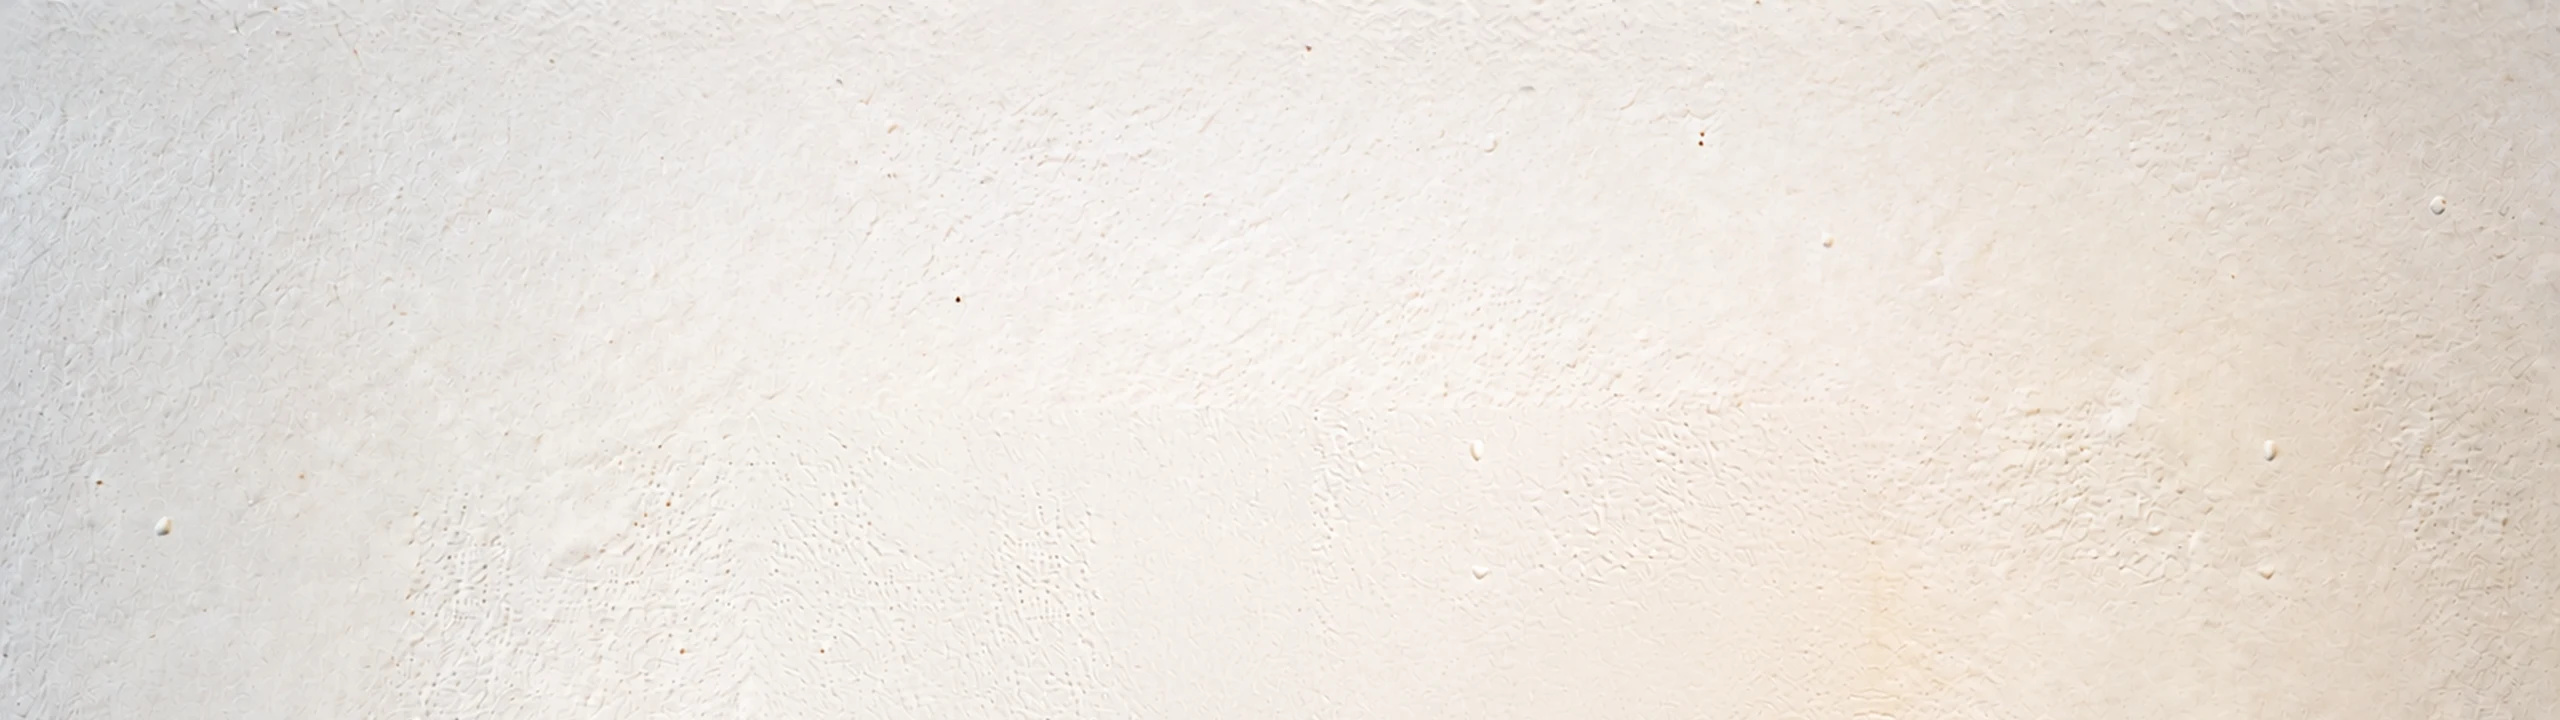
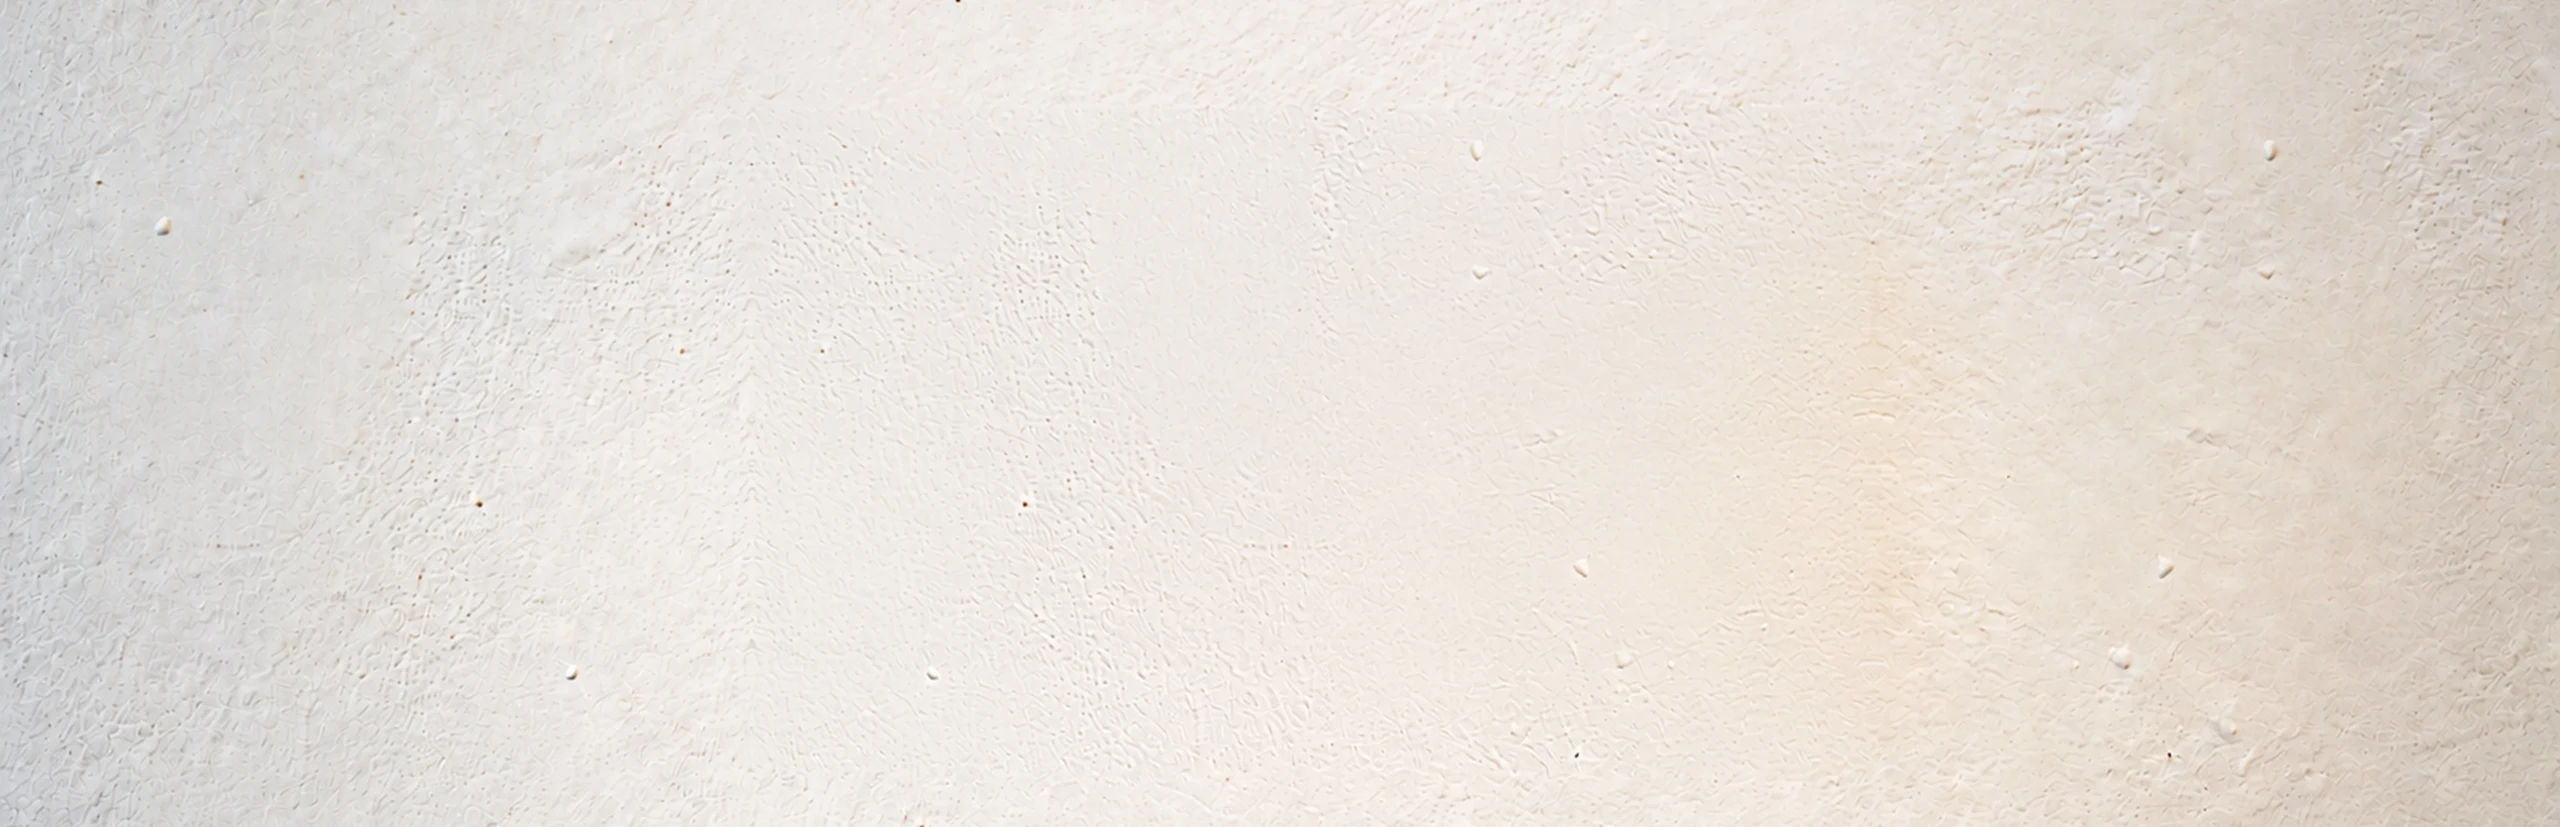
Proxy Media: plaster below the TV without the mirror line
tv-floor is now unmirrored plaster, tone-matched to the TV photo, that
overlaps the photo's bottom 80px and dissolves in over it.

Claude-Session: https://claude.ai/code/session_012kYhaJRhF992e4uGGoRwqB

diff --git a/proxymedia/motion/landing/scene.css b/proxymedia/motion/landing/scene.css
@@ -46,9 +46,11 @@ body,
   mask-image: linear-gradient(transparent, #000 15%);
 }
 #tv-floor {
-  top: 3320px;
-  height: 540px;
-  mask-image: linear-gradient(#000 80%, transparent);
+  /* Overlaps the bottom 80px of the TV photo and dissolves in over it, so
+     the plaster carries on below without a line. */
+  top: 3240px;
+  height: 620px;
+  mask-image: linear-gradient(transparent, #000 80px, #000 83%, transparent);
 }
 #vcr-closed {
   opacity: 0;
